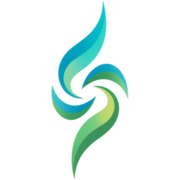
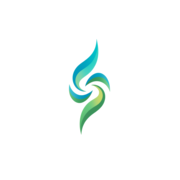
Changes

Changed region(s): [[0.2778, 0.0, 0.7222, 1.0]]

diff --git a/vite.config.ts b/vite.config.ts
@@ -35,25 +35,25 @@ export default defineConfig(({ mode }) => ({
         start_url: '/',
         icons: [
           {
-            src: 'pwa-192x192-v5.png',
+            src: 'pwa-192x192-v6.png',
             sizes: '192x192',
             type: 'image/png',
             purpose: 'any'
           },
           {
-            src: 'pwa-512x512-v5.png',
+            src: 'pwa-512x512-v6.png',
             sizes: '512x512',
             type: 'image/png',
             purpose: 'any'
           },
           {
-            src: 'pwa-maskable-192x192-v5.png',
+            src: 'pwa-maskable-192x192-v6.png',
             sizes: '192x192',
             type: 'image/png',
             purpose: 'maskable'
           },
           {
-            src: 'pwa-maskable-512x512-v5.png',
+            src: 'pwa-maskable-512x512-v6.png',
             sizes: '512x512',
             type: 'image/png',
             purpose: 'maskable'
